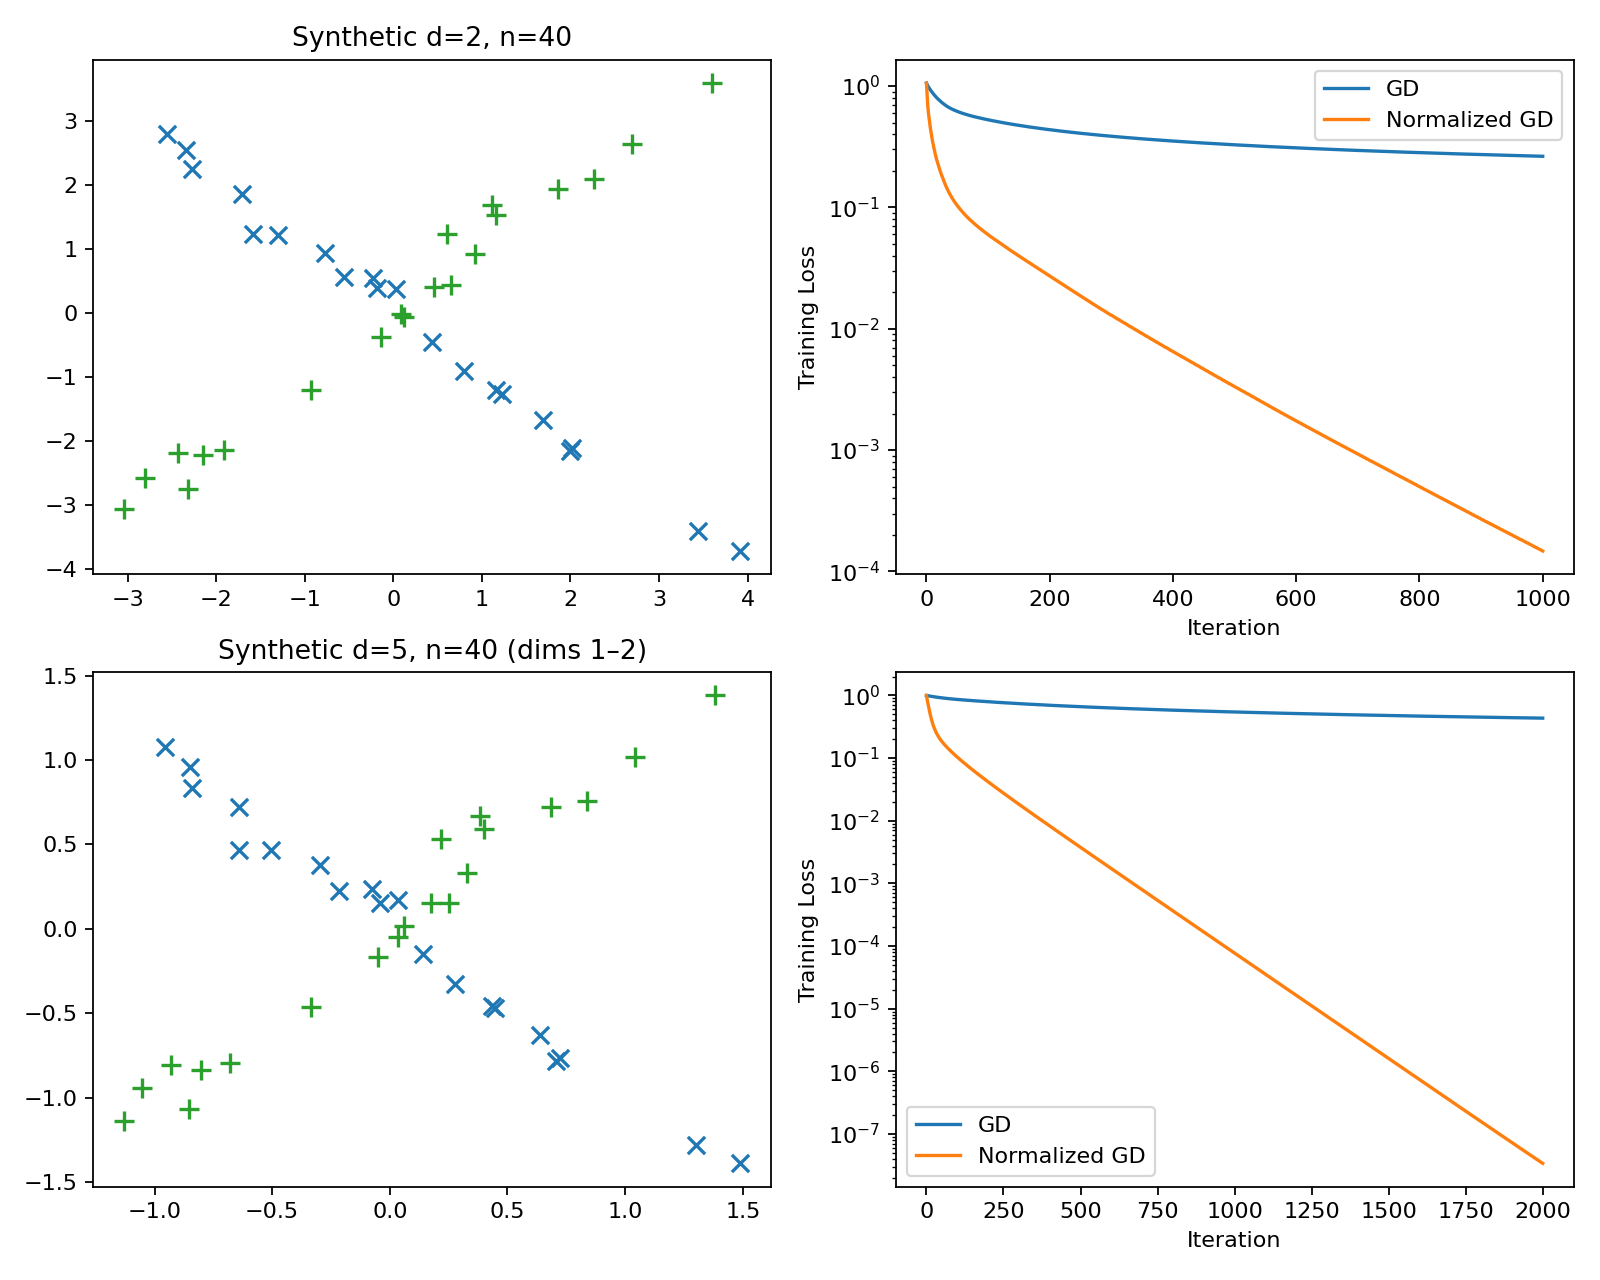
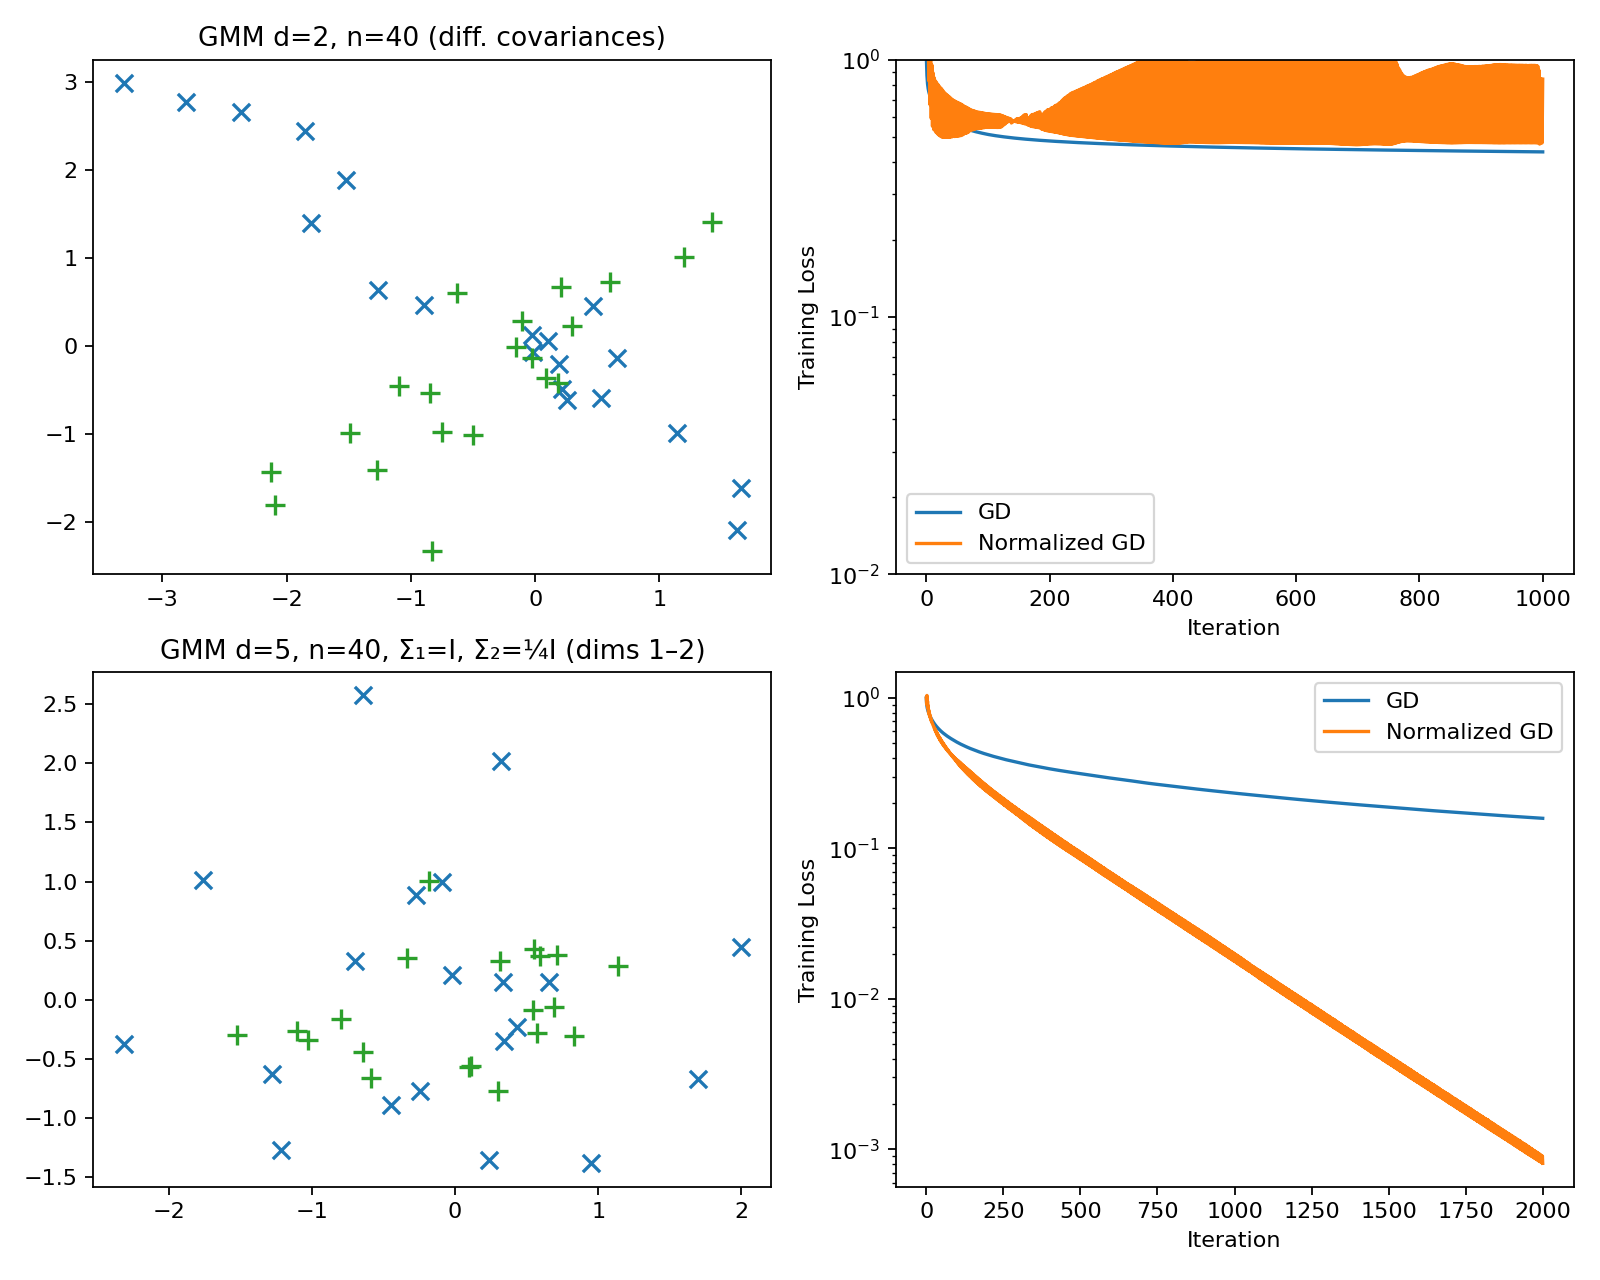
tried using GMM dataset

diff --git a/src/experiments/fig2_synthetic.py b/src/experiments/fig2_synthetic.py
@@ -4,7 +4,7 @@ import argparse
 
 import matplotlib.pyplot as plt
 
-from src.data.synthetic import x_shaped_d2_fig2_top, x_shaped_d5_fig2_bottom
+from src.data.synthetic import gaussian_mixture_d2_fig2_top, gaussian_mixture_d5_fig2_bottom
 from src.models.init import init_first_layer, init_second_layer
 from src.models.two_layer_fixed_a import TwoLayerFixedA
 from src.train.engine import TrainParams, run_training
@@ -33,20 +33,19 @@ def main() -> None:
     set_seed(args.seed, deterministic=True)
     run_dir = make_run_dir(name=f"fig2_synth_seed{args.seed}")
 
-    top = x_shaped_d2_fig2_top(seed=args.seed)
-    bot = x_shaped_d5_fig2_bottom(seed=args.seed)
+    top = gaussian_mixture_d2_fig2_top(seed=args.seed)
+    bot = gaussian_mixture_d5_fig2_bottom(seed=args.seed)
 
-    # eta_gd: moderate rate — converges slowly (GD slows as gradient norm shrinks near 0)
-    # eta_ngd: fixed step size after global-norm normalization — converges much faster
-    top_gd, top_ngd = _run_case(top.X, top.y, m=50, eta_gd=3.0, eta_ngd=3.0, steps=args.steps_top, seed=args.seed)
-    bot_gd, bot_ngd = _run_case(bot.X, bot.y, m=100, eta_gd=5.0, eta_ngd=5.0, steps=args.steps_bottom, seed=args.seed)
+    # Step-sizes fine-tuned per paper: η=80,350 for GD and η=30,20 for normalized GD
+    top_gd, top_ngd = _run_case(top.X, top.y, m=50, eta_gd=80, eta_ngd=30, steps=args.steps_top, seed=args.seed)
+    bot_gd, bot_ngd = _run_case(bot.X, bot.y, m=100, eta_gd=350, eta_ngd=20, steps=args.steps_bottom, seed=args.seed)
 
     fig, axes = plt.subplots(2, 2, figsize=(10, 8))
 
     # Scatter plots — match paper marker style (+/x)
     for ax, ds, ttl in [
-        (axes[0, 0], top, "Synthetic d=2, n=40"),
-        (axes[1, 0], bot, "Synthetic d=5, n=40 (dims 1–2)"),
+        (axes[0, 0], top, "GMM d=2, n=40 (diff. covariances)"),
+        (axes[1, 0], bot, "GMM d=5, n=40, Σ₁=I, Σ₂=¼I (dims 1–2)"),
     ]:
         mask = ds.y > 0
         ax.scatter(ds.X[~mask, 0].numpy(), ds.X[~mask, 1].numpy(),
@@ -67,6 +66,7 @@ def main() -> None:
         ax.set_xlabel("Iteration")
         ax.set_ylabel("Training Loss")
         ax.legend()
+    axes[0, 1].set_ylim(1e-2, 1e0)
 
     plt.tight_layout()
     plt.savefig(run_dir / "figure2_like.png", dpi=160)

diff --git a/src/data/synthetic.py b/src/data/synthetic.py
@@ -70,9 +70,13 @@ def gaussian_mixture_zero_mean(
 
 def gaussian_mixture_d2_fig2_top(*, n: int = 40, seed: int = 0, device: torch.device | None = None) -> SyntheticDataset:
     d = 2
-    # Different covariances (paper doesn't specify exact values)
-    Sigma0 = torch.tensor([[1.0, 0.8], [0.8, 1.0]])
-    Sigma1 = torch.tensor([[1.0, -0.6], [-0.6, 1.5]])
+    # X-shaped GMM: each class is a zero-mean Gaussian elongated along one diagonal.
+    # Sigma = lambda_large * u*u^T + lambda_small * v*v^T
+    # u = [1,1]/sqrt(2), v = [1,-1]/sqrt(2), lambda_large=4, lambda_small=0.1
+    # Class -1: elongated along [1,-1]  -> Sigma0 = [[2.05, -1.95], [-1.95, 2.05]]
+    # Class +1: elongated along [1, 1]  -> Sigma1 = [[2.05,  1.95], [ 1.95, 2.05]]
+    Sigma0 = torch.tensor([[2.05, -1.95], [-1.95, 2.05]])
+    Sigma1 = torch.tensor([[2.05,  1.95], [ 1.95, 2.05]])
     return gaussian_mixture_zero_mean(n=n, d=d, Sigma0=Sigma0, Sigma1=Sigma1, seed=seed, device=device)
 
 
